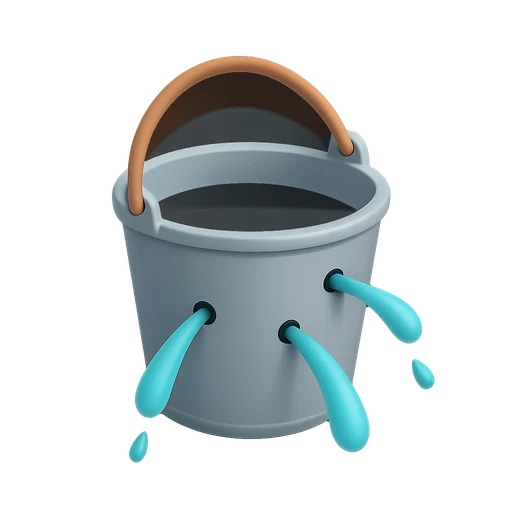
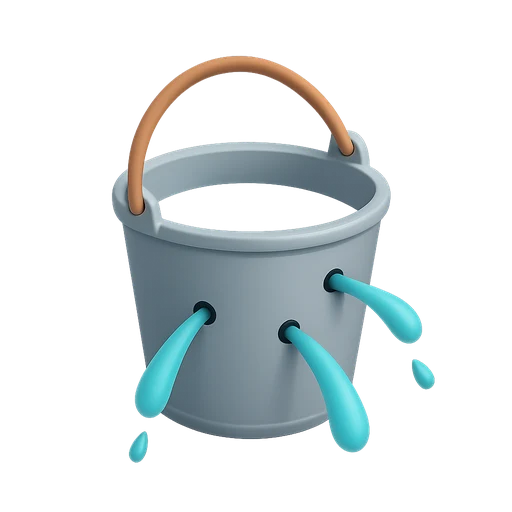
Restore the original bucket, photo stack and patch images
Claude-Session: https://claude.ai/code/session_01EwSpp1ySrzExTB2LA7xjCv

Changed region(s): [[0.2812, 0.125, 0.6562, 0.3125], [0.3125, 0.3438, 0.6875, 0.4688]]

diff --git a/brainscroll/CHANGELOG.md b/brainscroll/CHANGELOG.md
@@ -5,7 +5,7 @@ Concise record of completed work. Newest first. Product rules live in `docs/spec
 ## 2026-09-27: Six subjects and the next ten trees
 
 - **No image twice in a row.** Consecutive levels always show different art, checkpoints included (owner rule). 176 repeats across the 20 trees were replaced with fitting images from the library, and the validator now rejects a repeat. 155 published levels got a new revision for their new image.
-- **Wave 2 and 3 images in:** 210 approved images; the 26 rejected are replaced in the syllabi by images already in the app. Eleven had see-through gaps (a generator flaw) filled with a matching shade.
+- **Wave 2 and 3 images in:** 210 approved images; the 26 rejected are replaced in the syllabi by images already in the app. Eight had see-through gaps (a generator flaw) filled with a matching shade.
 - **Waves 2 and 3 planned:** 100-level syllabi and tree rules for Literature (mythology first), Film & TV, Computers & the Internet, Earth, Weather & Climate, Philosophy and World Religions, with every level's image chosen (no back-to-back repeats). 236 new images to make are listed in `docs/images-waves2-3.md`.
 - **Mastery art for all ten new trees.** Dr. Scroll awarding each tree's gold emblem (Level 100 art) and the emblem alone (UI badge), made by the owner. Wave 1 badges are wired; waves 2 and 3 are ready for when their trees exist.
 - **Wave 1 images in.** 111 approved images for US History and the Mind & Reasoning trees are in the app (`mind.*`, `us.*`); the 15 the owner rejected are replaced in the syllabi by images already in hand.

diff --git a/brainscroll/docs/images-waves2-3.md b/brainscroll/docs/images-waves2-3.md
@@ -1,6 +1,6 @@
 # Images to make: the last six trees
 
-**Status (2026-09-27):** 210 made and in the app. The owner rejected 26 (see-through patches where shadows or solids should be); their levels now use other images, so none need remaking. Eleven accepted images had small see-through gaps filled (bucket, geode, both caves, VHS tape, photo stack, viewfinder, security camera, two pairs of shoes, patch).
+**Status (2026-09-27):** 210 made and in the app. The owner rejected 26 (see-through patches where shadows or solids should be); their levels now use other images, so none need remaking. Eight accepted images had small see-through gaps filled (geode, both caves, VHS tape, viewfinder, security camera, two pairs of shoes); the bucket, photo stack and patch stay as made.
 
 236 images for Literature, Film & TV, Computers & the Internet, Earth, Weather & Climate, Philosophy and World Religions. Mastery images are done and not listed. Each image is used by at least one planned level.
 
